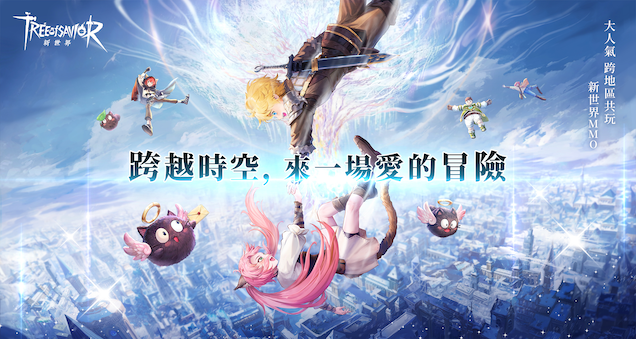
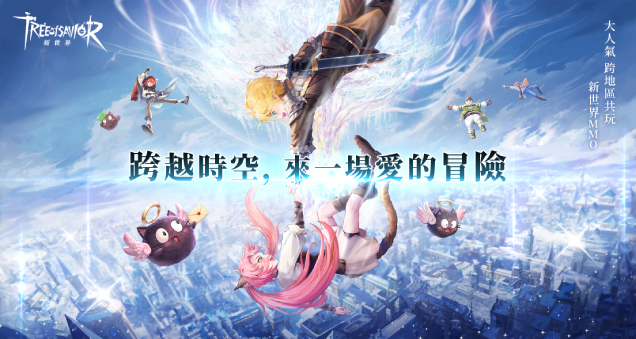
fix image

diff --git a/game.html b/game.html
@@ -123,7 +123,7 @@
             <span class="bottom"></span>
           </div>
           <a href="https://cqzx.sialiagames.com.tw/#/index" target="_blank" >
-          <img src="./assets/images/game/game-6.jpg" alt="" />
+          <img src="./assets/images/game/game-6.png" alt="" />
           <div class="desc">
         
             <p>
@@ -142,7 +142,7 @@
             <span class="bottom"> </span>
           </div>
           <a href="https://sangokushi.sialiagames.com.tw/s3gtw#/index" target="_blank" >
-          <img src="./assets/images/game/game-8.jpg" alt="" />
+          <img src="./assets/images/game/game-8.png" alt="" />
           <div class="desc">
             <p>雨落千日，詭事四起！</p>
 
